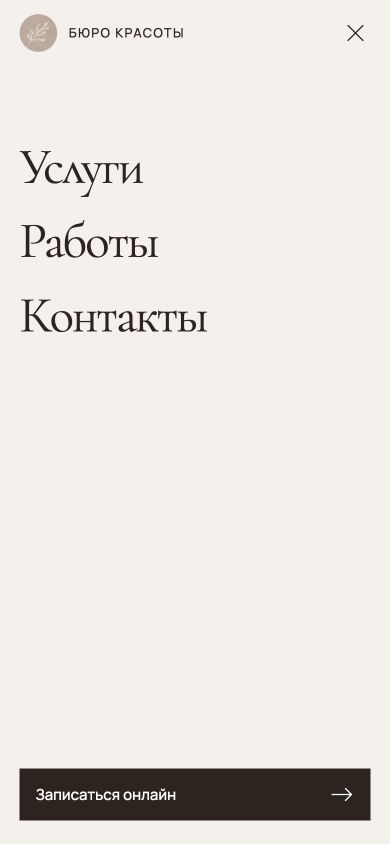
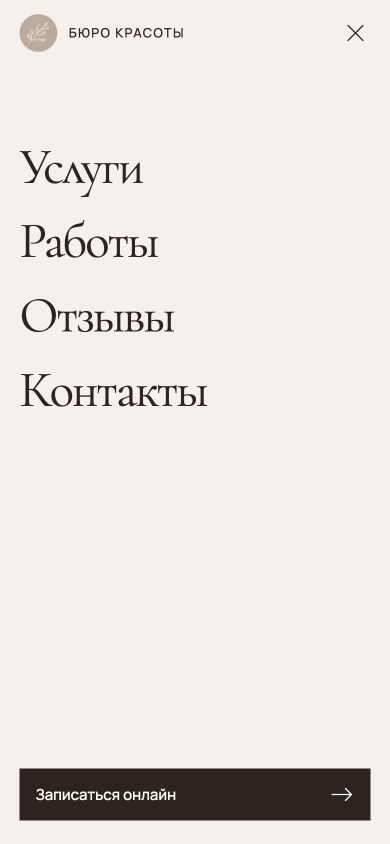
Add section availability notices

Changed region(s): [[0.0615, 0.4313, 0.5231, 0.4929], [0.0615, 0.3389, 0.5231, 0.4005]]

diff --git a/styles.css b/styles.css
@@ -73,6 +73,13 @@ body { margin: 0; min-inline-size: 0; }
 a { color: inherit; text-decoration: none; }
 button { color: inherit; font: inherit; }
 a, button { touch-action: manipulation; }
+button[data-section] {
+  padding: 0;
+  border: 0;
+  background: transparent;
+  cursor: pointer;
+  text-align: start;
+}
 img { display: block; max-inline-size: 100%; }
 svg { flex: none; }
 
@@ -312,7 +319,10 @@ svg { flex: none; }
     inset-inline-end: clamp(23px, 2.45vw, 46px);
   }
 
-  .hero__intro { align-self: center; }
+  .hero__intro {
+    align-self: center;
+    margin-block-end: clamp(0px, calc(14svh - 72px), 48px);
+  }
 
   .hero-title {
     margin-block-end: clamp(21px, 2vw, 38px);
@@ -332,6 +342,13 @@ svg { flex: none; }
   .works-link { gap: clamp(7px, 0.62vw, 12px); }
   .works-link::after { opacity: 0.42; }
   .works-link__icon { width: 18px; height: 18px; }
+}
+
+@media (min-width: 1280px) {
+  .hero__grid {
+    grid-template-columns: minmax(0, 62%) minmax(0, 1fr);
+    column-gap: 3.4%;
+  }
 }
 
 @media (width < 900px) {
@@ -472,7 +489,7 @@ html.menu-open body { position: fixed; inset: var(--page-offset) 0 auto; }
   padding-block: clamp(30px, 9dvh, 93px) 38px;
 }
 
-.menu__nav a {
+.menu__nav :is(a, button) {
   display: flex;
   align-items: center;
   min-height: 49px;
@@ -480,11 +497,71 @@ html.menu-open body { position: fixed; inset: var(--page-offset) 0 auto; }
   letter-spacing: -0.037em;
 }
 
-.menu__nav a:active { color: #6e5144; }
+.menu__nav :is(a, button):active { color: #6e5144; }
 .menu__booking { width: 100%; margin-block-start: auto; }
+
+.section-notice {
+  position: fixed;
+  z-index: 1;
+  inset-inline-end: max(var(--gutter), env(safe-area-inset-right), calc((100% - var(--salon-width)) / 2 + var(--gutter)));
+  inset-block-end: max(16px, calc(env(safe-area-inset-bottom) + 10px));
+  display: grid;
+  grid-template-columns: minmax(0, 1fr) auto auto;
+  align-items: center;
+  gap: 14px;
+  padding: 8px 8px 8px 18px;
+  border: 1px solid var(--taupe);
+  background: var(--paper);
+}
+
+.section-notice[hidden] { display: none; }
+
+.section-notice__message {
+  margin: 0;
+  font-size: 14px;
+  font-weight: 500;
+  line-height: 1.38;
+}
+
+.section-notice__booking {
+  min-block-size: 44px;
+  padding-inline: 15px;
+  font-size: 14px;
+}
+
+.section-notice__close {
+  display: grid;
+  place-items: center;
+  inline-size: 44px;
+  block-size: 44px;
+  padding: 0;
+  border: 0;
+  background: transparent;
+  cursor: pointer;
+}
+
+.section-notice__close:active { background: var(--powder); }
+
+.visually-hidden {
+  position: absolute;
+  inline-size: 1px;
+  block-size: 1px;
+  margin: 0;
+  overflow: hidden;
+  clip-path: inset(50%);
+  white-space: nowrap;
+}
 
 @media (width < 640px) {
   .menu { width: 100%; }
+
+  .section-notice {
+    inset-inline: max(var(--gutter), env(safe-area-inset-left)) max(var(--gutter), env(safe-area-inset-right));
+    gap: 8px;
+    padding-inline: 12px 5px;
+  }
+
+  .section-notice__booking { padding-inline: 11px; }
 }
 
 @media (prefers-reduced-motion: no-preference) {
@@ -498,14 +575,17 @@ html.menu-open body { position: fixed; inset: var(--page-offset) 0 auto; }
 
   .site-header:focus-within, .hero__actions:focus-within { animation: none; }
 
-  .menu[open] .menu__nav a {
+  .menu[open] .menu__nav :is(a, button) {
     animation: enter 380ms var(--editorial-ease) backwards;
     animation-delay: 90ms;
   }
 
-  .menu[open] .menu__nav a:nth-child(2) { animation-delay: 140ms; }
-  .menu[open] .menu__nav a:nth-child(3) { animation-delay: 190ms; }
-  .menu[open] .menu__nav a:focus-visible { animation: none; }
+  .menu[open] .menu__nav :nth-child(2) { animation-delay: 140ms; }
+  .menu[open] .menu__nav :nth-child(3) { animation-delay: 190ms; }
+  .menu[open] .menu__nav :nth-child(4) { animation-delay: 240ms; }
+  .menu[open] .menu__nav :focus-visible { animation: none; }
+
+  .section-notice { animation: enter 220ms var(--editorial-ease) backwards; }
 
   @media (width < 640px) {
     .collage__portrait { animation-duration: 680ms; }

diff --git a/site.js b/site.js
@@ -1,8 +1,17 @@
 const menu = document.querySelector('#mobile-menu');
 const menuTrigger = document.querySelector('[aria-controls="mobile-menu"]');
+const desktopBrand = document.querySelector('.site-header .brand');
 const desktopLayout = window.matchMedia('(min-width: 900px)');
 const root = document.documentElement;
+const notice = document.querySelector('#section-notice');
+const noticeMessage = notice.querySelector('.section-notice__message');
+const noticeStatus = document.querySelector('#section-notice-status');
+const sectionNames = new Map(
+  [...document.querySelectorAll('.site-nav [data-section]')]
+    .map((link) => [link.dataset.section, link.textContent.trim()])
+);
 let scrollBeforeMenu = 0;
+let noticeTrigger;
 
 function openMenu() {
   if (menu.open) return;
@@ -22,10 +31,35 @@ function finishClosingMenu() {
   window.scrollTo(0, scrollBeforeMenu);
   menuTrigger.setAttribute('aria-expanded', 'false');
 
-  if (desktopLayout.matches) {
-    document.querySelector('.site-header .brand').focus({ preventScroll: true });
-  } else {
-    menuTrigger.focus({ preventScroll: true });
+  headerFocusTarget().focus({ preventScroll: true });
+}
+
+function headerFocusTarget() {
+  return desktopLayout.matches ? desktopBrand : menuTrigger;
+}
+
+function closeMenu() {
+  menu.close();
+  // Unlock scrolling before the browser follows an in-page link.
+  finishClosingMenu();
+}
+
+function showNotice(name, trigger) {
+  const message = `Раздел «${name}» в разработке`;
+  noticeTrigger = trigger;
+  noticeMessage.textContent = message;
+  notice.hidden = false;
+  noticeStatus.textContent = message;
+}
+
+function hideNotice() {
+  const restoreFocus = notice.contains(document.activeElement);
+  notice.hidden = true;
+  noticeStatus.textContent = '';
+
+  if (restoreFocus) {
+    const target = noticeTrigger?.getClientRects().length ? noticeTrigger : headerFocusTarget();
+    target.focus({ preventScroll: true });
   }
 }
 
@@ -51,16 +85,39 @@ menu.addEventListener('keydown', (event) => {
   }
 });
 
-// As sections are built, their local IDs take over from the salon's public listing.
+// Ready sections keep native links. Until then, an enhanced page opens a notice.
 for (const link of document.querySelectorAll('[data-section]')) {
-  const section = document.getElementById(link.dataset.section);
-  if (section) link.href = `#${section.id}`;
+  const id = link.dataset.section;
+  const section = document.getElementById(id);
+  if (section) {
+    link.href = `#${section.id}`;
+    continue;
+  }
+
+  const trigger = document.createElement('button');
+  trigger.type = 'button';
+  trigger.className = link.className;
+  trigger.dataset.section = id;
+  trigger.setAttribute('aria-controls', notice.id);
+  trigger.append(...link.childNodes);
+  link.replaceWith(trigger);
+
+  trigger.addEventListener('click', async () => {
+    const fromMenu = menu.contains(trigger);
+    if (fromMenu) {
+      closeMenu();
+      await Promise.allSettled(menu.getAnimations().map((animation) => animation.finished));
+      if (menu.open) return;
+    }
+    showNotice(sectionNames.get(id), fromMenu ? menuTrigger : trigger);
+  });
 }
 
 menu.addEventListener('click', (event) => {
-  if (event.target === menu || event.target.closest('a')) {
-    menu.close();
-    // Unlock scrolling before the browser follows an in-page link.
-    finishClosingMenu();
-  }
+  if (event.target === menu || event.target.closest('a')) closeMenu();
+});
+
+notice.querySelector('.section-notice__close').addEventListener('click', hideNotice);
+document.addEventListener('keydown', (event) => {
+  if (event.key === 'Escape' && !menu.open && !notice.hidden) hideNotice();
 });

diff --git a/index.html b/index.html
@@ -23,6 +23,7 @@
     <nav class="site-nav" aria-label="Основная навигация">
       <a class="nav-link" data-section="services" href="https://yandex.ru/maps/org/byuro_krasoty/233790800142/prices/">Услуги</a>
       <a class="nav-link" data-section="works" href="https://yandex.ru/maps/org/byuro_krasoty/233790800142/gallery/">Работы</a>
+      <a class="nav-link" data-section="reviews" href="https://yandex.ru/maps/org/byuro_krasoty/233790800142/reviews/">Отзывы</a>
       <a class="nav-link" data-section="contacts" href="https://yandex.ru/maps/org/byuro_krasoty/233790800142/">Контакты</a>
     </nav>
 
@@ -93,6 +94,7 @@
       <nav class="menu__nav" aria-label="Основная навигация">
         <a data-section="services" href="https://yandex.ru/maps/org/byuro_krasoty/233790800142/prices/">Услуги</a>
         <a data-section="works" href="https://yandex.ru/maps/org/byuro_krasoty/233790800142/gallery/">Работы</a>
+        <a data-section="reviews" href="https://yandex.ru/maps/org/byuro_krasoty/233790800142/reviews/">Отзывы</a>
         <a data-section="contacts" href="https://yandex.ru/maps/org/byuro_krasoty/233790800142/">Контакты</a>
       </nav>
 
@@ -104,5 +106,16 @@
       </a>
     </div>
   </dialog>
+
+  <div class="section-notice" id="section-notice" hidden>
+    <p class="section-notice__message"></p>
+    <a class="button section-notice__booking" href="https://n1221136.yclients.ru/">Записаться</a>
+    <button class="section-notice__close" type="button" aria-label="Закрыть уведомление">
+      <svg width="17" height="17" viewBox="0 0 24 24" fill="none" stroke="currentColor" stroke-width="1.5" aria-hidden="true">
+        <path d="m5 5 14 14M19 5 5 19"/>
+      </svg>
+    </button>
+  </div>
+  <p class="visually-hidden" id="section-notice-status" role="status"></p>
 </body>
 </html>

diff --git a/design-qa.md b/design-qa.md
@@ -16,7 +16,7 @@
 - На десктопе портрет занимает 58% ширины композиции. Вставка с маникюром сохраняет рамку цвета фона и выступает за нижний правый край. Заголовок расположен ниже исходного. После удаления двух строк информационного текста кнопки придвинуты к заголовку.
 - На телефоне отступы составляют 16–24 px. Портрет кадрирован отдельной версией того же снимка. Вставка занимает около 34% ширины экрана. Пропорции портрета оставляют место для заголовка и кнопки записи над сгибом при высотах 568–932 px. Название салона набрано в две строки.
 - Cormorant Garamond и Manrope подключены локально. Вторая строка использует отдельный файл Italic. Нижняя надпись масштабируется размером шрифта и трекингом. Контраст основного текста к фону 13,27:1, белого к фону кнопки 15,03:1, крупного названия к фону 3,51:1.
-- Маникюр и знак взяты из первого референса. Портрет восстановлен через ImageGen с заполнением области под вставкой. Эти изображения иллюстрируют концепцию. Ссылка «Смотреть работы» ведёт к галерее карточки салона.
+- Маникюр и знак взяты из первого референса. Портрет восстановлен через ImageGen с заполнением области под вставкой. Эти изображения иллюстрируют концепцию. Ссылка «Смотреть работы» открывает плашку, пока раздел работ находится в разработке.
 - На промежуточных мобильных ширинах ограничена высота портрета, чтобы поднять кнопку записи. Снимки 1440 × 810 и 1440 × 740 показывают нижнюю надпись целиком.
 
 ## Проверка в браузере
@@ -26,14 +26,22 @@
 - Проверены ширины 1920, 1440, 1280, 1024, 768, 430, 390, 375 и 320 px, а также переходы 639/640 и 899/900 px. Горизонтального скролла нет. Кнопка записи видна в первом экране на тестовых размерах телефонов и ноутбуков.
 - Меню проверено мышью и клавиатурой. Фокус переходит к кнопке закрытия и циклически перемещается внутри панели. Кнопка и Escape закрывают меню и возвращают фокус. При открытии на прокрученной странице подтверждено сохранение позиции 40 px и восстановление после закрытия.
 - Проверены загрузка ресурсов, последовательность CSS-анимаций и отсутствие ошибок в консоли. Режим prefers-reduced-motion отключает анимации появления и переходы в CSS. Мобильные проверки проведены в браузерной эмуляции.
-- [YCLIENTS](https://n1221136.yclients.ru/) открывает выбор услуг салона на Московском проспекте, 19. Ссылки на услуги, фотографии и контакты проверены по [карточке салона](https://yandex.ru/maps/org/byuro_krasoty/233790800142/).
+- [YCLIENTS](https://n1221136.yclients.ru/) открывает выбор услуг салона на Московском проспекте, 19. Резервные ссылки для режима без JavaScript ведут в [карточку салона](https://yandex.ru/maps/org/byuro_krasoty/233790800142/).
 
 ## Доработка десктопа
 
 - На ширине 1440 px высота шапки составляет 68 px, логотип уменьшен с 60 до 45 px, кнопка в шапке занимает 160 × 44 px. Сокращены промежутки между ссылками навигации.
 - Фотография маникюра примерно на 12% уже, её центр смещён влево, нижний край опущен. Основной портрет сохраняет масштаб и наложение фотографий.
-- Текстовый блок центрирован по высоте коллажа. Основная кнопка примерно на четверть уже, текст выровнен по центру. Нижняя надпись уменьшена на 11%.
+- Текстовый блок слегка поднят относительно середины коллажа, а на широких экранах придвинут к фото. Основная кнопка примерно на четверть уже, текст выровнен по центру. Нижняя надпись уменьшена на 11%.
 - Проверены 1280 × 720, 1440 × 810, 1440 × 740, 1920 × 1080 и 2560 × 1440. Заголовок, кнопки, фотографии и нижняя надпись помещаются в первый экран. Горизонтального скролла нет.
-- Мобильный снимок 390 × 844 совпал с предыдущим попиксельно. Повторно проверены открытие меню с клавиатуры, Escape, блокировка прокрутки и возврат фокуса. Ошибок в консоли нет.
+- На первом экране 390 × 844 сохранены прежние размеры и расположение элементов. Повторно проверены открытие меню с клавиатуры, Escape, блокировка прокрутки и возврат фокуса. Ошибок в консоли нет.
+
+## Навигация и уведомления
+
+- Проверены порядок «Услуги → Работы → Отзывы → Контакты», четыре сообщения и общая плашка для «Смотреть работы» и «Работы». Кнопка в плашке ведёт в ту же форму YCLIENTS, что и основная кнопка сайта.
+- Проверены закрытие крестиком и Escape, возврат фокуса, одна плашка при выборе разных пунктов и блокировка прокрутки только во время открытия мобильного меню.
+- На ширине 320 px проверены все четыре пункта мобильного меню. Плашка появляется после закрытия меню.
+- На временном стенде добавлен раздел «Работы». Ссылка «Смотреть работы» и одноимённый пункт мобильного меню разрешились в якорь `#works`. Переход из меню прокрутил страницу к разделу без показа плашки.
+- Повторены визуальная проверка на 1280, 1440, 1920 и 2560 px, проверка на 1440 × 740 и замеры на границе навигации 899/900 px.
 
 final result: passed
